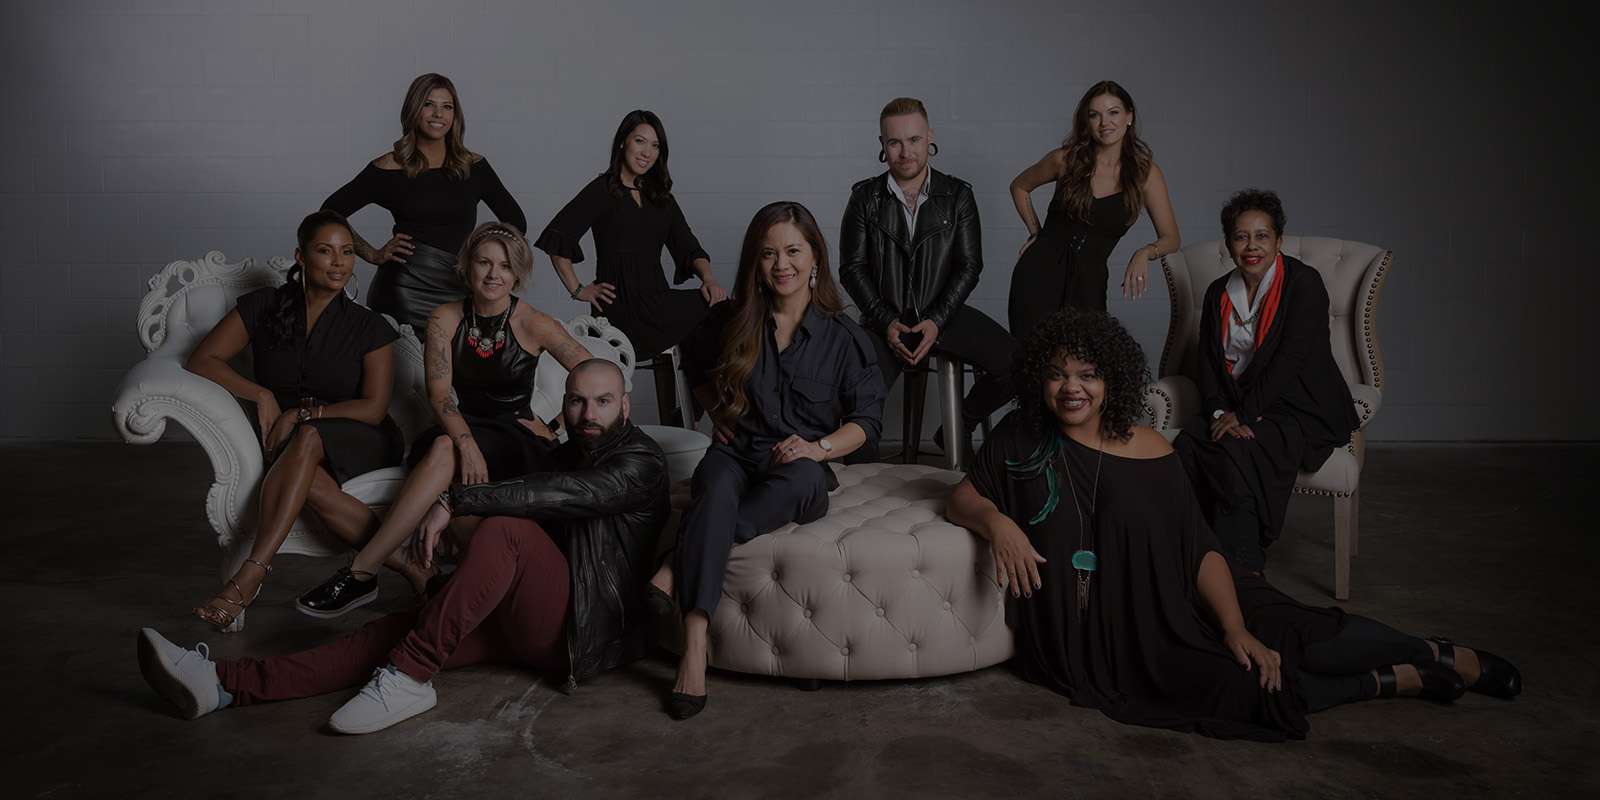
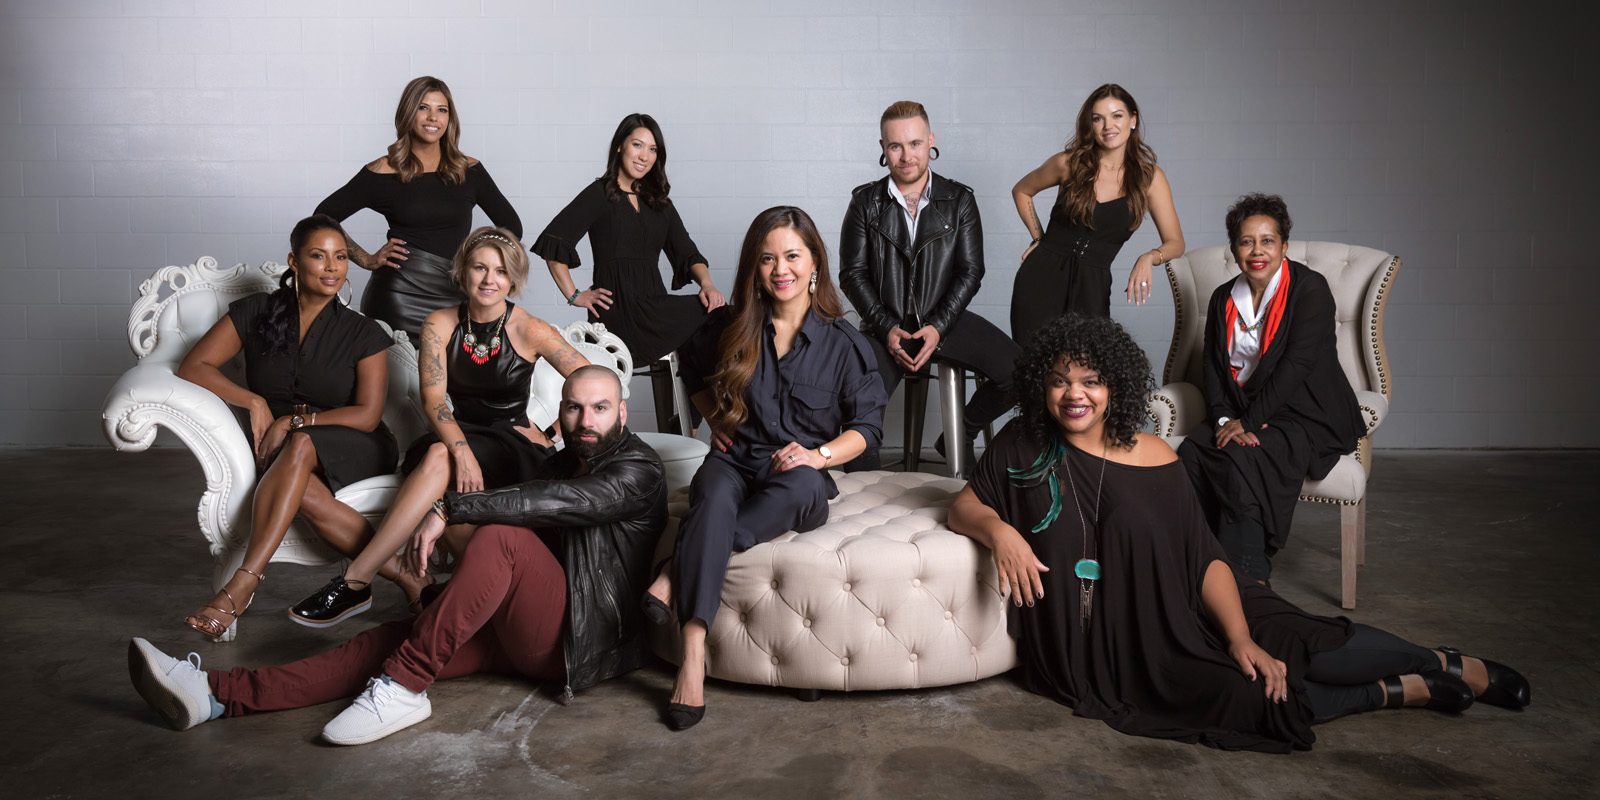
updated find a stylist hero

diff --git a/app/assets/stylesheets/public_website/hero.css.scss b/app/assets/stylesheets/public_website/hero.css.scss
@@ -36,6 +36,23 @@
   .item {
     position: relative;
 
+    .img-overlay {
+      position: absolute;
+      top: 0;
+      bottom: 0;
+      left: 0;
+      right: 0;
+      z-index: 2;
+
+      &.black-25 {
+        background: rgba(0,0,0,0.25);
+      }
+
+      &.black-50 {
+        background: rgba(0,0,0,0.5);
+      }
+    }
+
     .item-content {
       display: flex;
       flex-direction: column;
